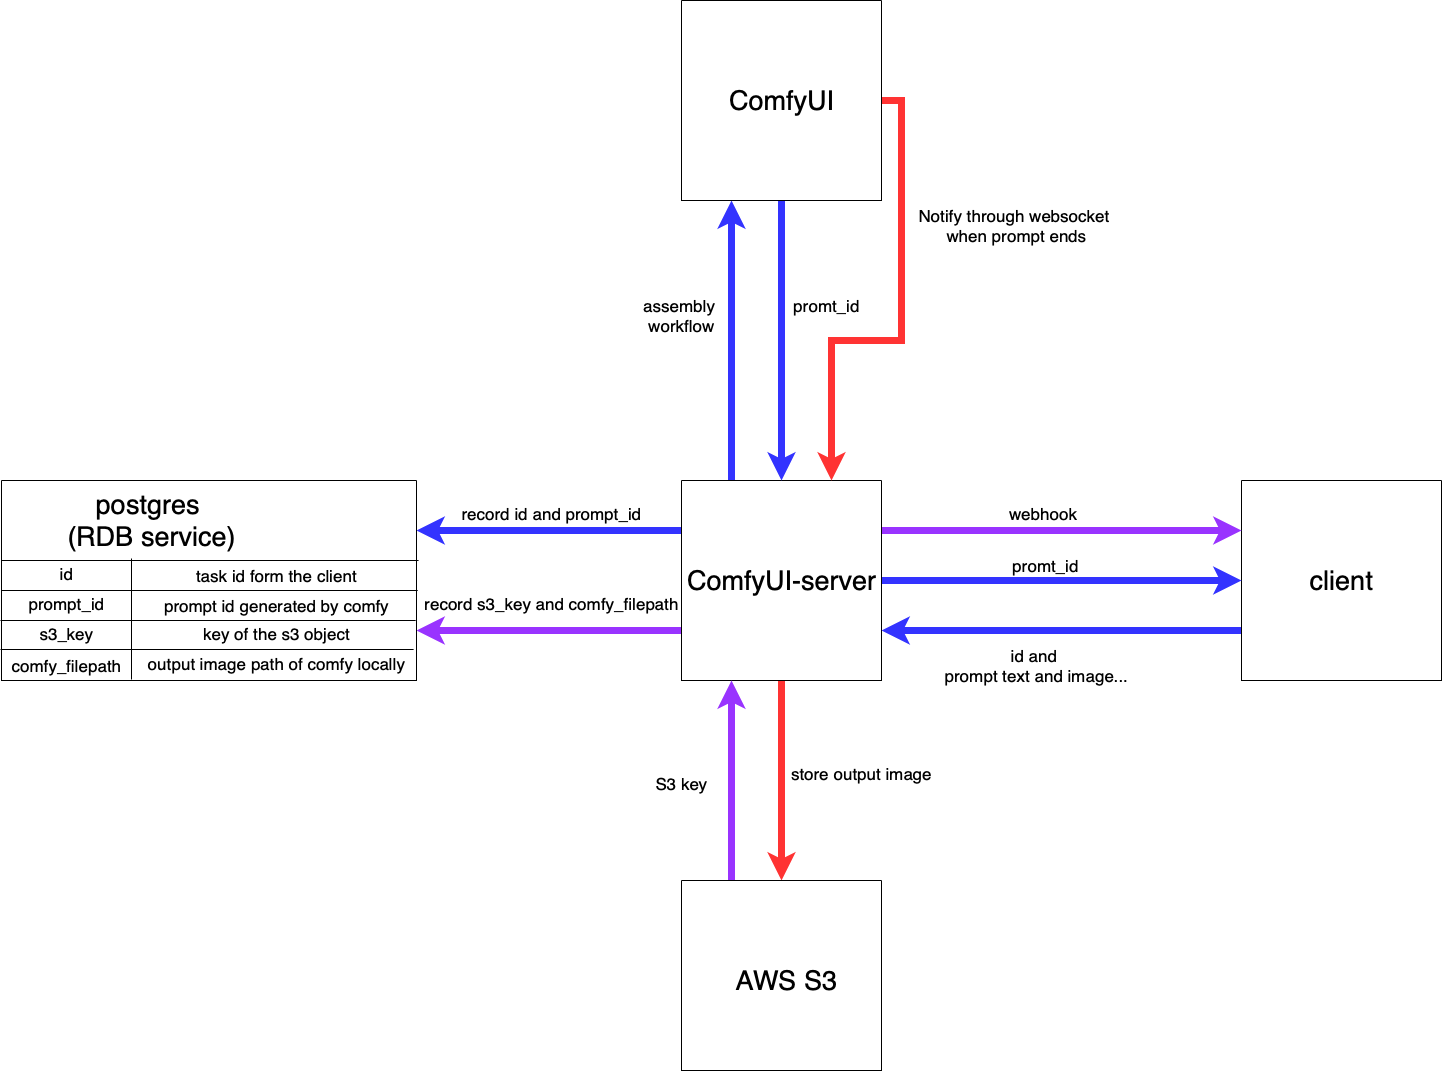
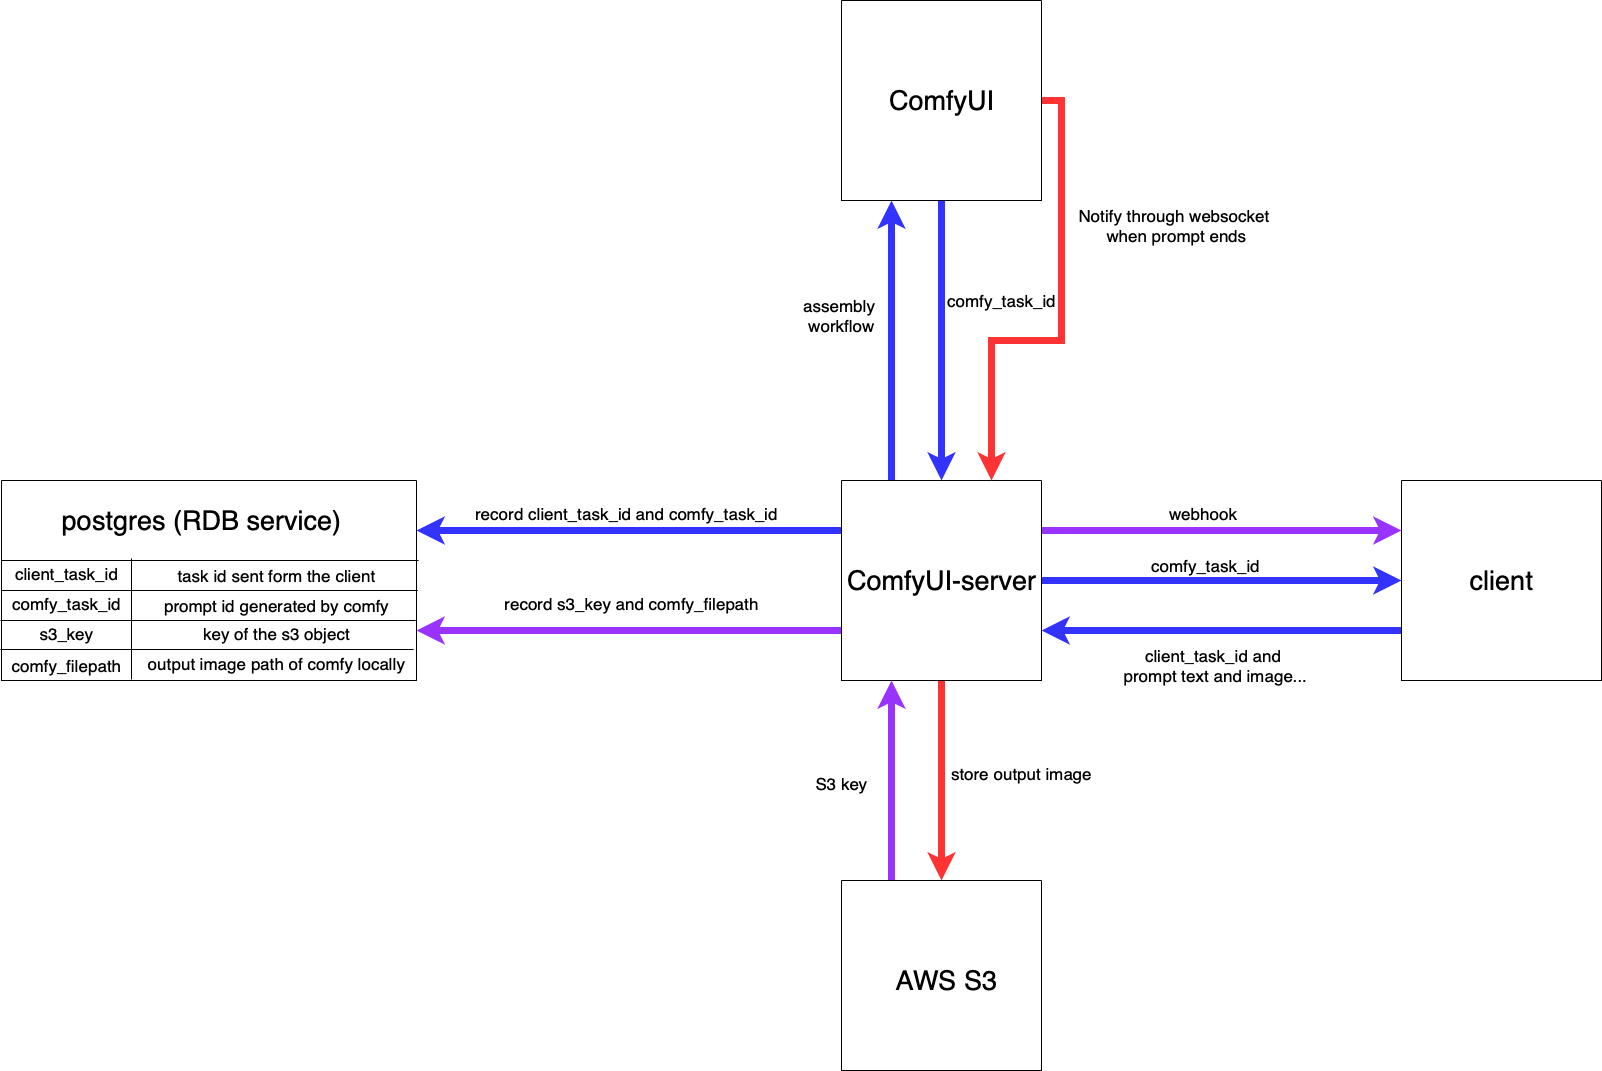
refactor: rename variables

diff --git a/src/comfy/__init__.py b/src/comfy/__init__.py
@@ -1,14 +1,18 @@
 import asyncio
 import json
 import logging
-import os
 import uuid
 
 import httpx
 import websockets
-from sqlalchemy.event import listen
 
-from config import COMFY_HOST, COMFY_PORT, COMFY_CLIENT_ID, CALL_BACK_BASE_URL, FALLBACK_PATH
+from config import (
+    COMFY_HOST,
+    COMFY_PORT,
+    COMFY_CLIENT_ID,
+    CALL_BACK_BASE_URL,
+    FALLBACK_PATH
+)
 from database import Record
 from database.repository import RecordRepository
 from s3 import upload_image_to_s3
@@ -17,7 +21,7 @@ from workflows.clean_file import CLEAN_FILE_PROMPT_TEMPLATE
 logger = logging.getLogger(__name__)
 
 
-class ComfyClient:
+class ComfyServer:
     _instance = None
 
     def __init__(self):
@@ -29,11 +33,11 @@ class ComfyClient:
 
     @staticmethod
     def get_instance():
-        if ComfyClient._instance is None:
-            ComfyClient._instance = ComfyClient()
-        return ComfyClient._instance
+        if ComfyServer._instance is None:
+            ComfyServer._instance = ComfyServer()
+        return ComfyServer._instance
 
-    async def queue_prompt(self, id, prompt: dict) -> Record:
+    async def queue_prompt(self, client_task_id: int, prompt: dict) -> Record:
         """commit a prompt to the comfy server"""
         uri = f'http://{self.host}:{self.port}/prompt'
         payload = {
@@ -43,8 +47,8 @@ class ComfyClient:
         async with httpx.AsyncClient() as client:
             response = await client.post(uri, json=payload)
             logger.debug(f'queue prompt response: {response.text}')
-            prompt_id = response.json()['prompt_id']
-            record = Record(id=id, prompt_id=prompt_id)
+            comfy_task_id = response.json()['prompt_id']
+            record = Record(client_task_id=client_task_id, comfy_task_id=comfy_task_id)
             record = await RecordRepository.create(record)
             return record
 
@@ -58,8 +62,8 @@ class ComfyClient:
                     message = await websocket.recv()
                     json_data = json.loads(message)
                     if json_data.get("type") == "executing" and json_data.get("data", {}).get("node") is None:
-                        prompy_id = json_data['data']['prompt_id']
-                        image = await self._retrieve_prompt(prompy_id)
+                        comfy_task_id = json_data['data']['prompt_id']
+                        image = await self._retrieve_image(comfy_task_id)
                         s3_resp = await upload_image_to_s3(image)
                         logger.info(f'uploaded image to s3: {s3_resp}')
                         if not s3_resp['success']:
@@ -67,7 +71,7 @@ class ComfyClient:
                             await self.store_failure(record, image)
                             continue
 
-                        record = await RecordRepository.retrieve_by_prompt_id(prompy_id)
+                        record = await RecordRepository.retrieve_by_comfy_task_id(comfy_task_id)
                         record.s3_key = s3_resp['key']
                         record = await RecordRepository.update(record)
                         try:
@@ -83,39 +87,36 @@ class ComfyClient:
                     await asyncio.sleep(5)
                     await self.listen()
 
-    async def _retrieve_prompt(self, prompt_id: str) -> bytes:
-        """retrieve a prompt from the comfy server"""
-        history_uri = f'http://{self.host}:{self.port}/history/{prompt_id}'
+    async def _retrieve_image(self, comfy_task_id: str) -> bytes:
+        """retrieve prompt task result(image) from comfyui"""
+        # 1. get the image path from the comfy server
+        history_uri = f'http://{self.host}:{self.port}/history/{comfy_task_id}'
         async with httpx.AsyncClient() as client:
             response = await client.get(history_uri)
             history = response.json()
-        output_info = history[prompt_id]['outputs']
+        output_info = history[comfy_task_id]['outputs']
         for key in output_info:
             if 'images' not in output_info[key]:
                 continue
-            image_info = output_info[key]['images'][0]  # todo now only retrieve the first image
+            image_info = output_info[key]['images'][0]  # note now only retrieve the first image
             image_path = image_info['filename']
             if image_info['subfolder']:
                 image_path = f"{image_info['subfolder']}/{image_path}"
 
-            record = await RecordRepository.retrieve_by_prompt_id(prompt_id)
+            record = await RecordRepository.retrieve_by_comfy_task_id(comfy_task_id)
             record.comfy_filepath = image_path
             await RecordRepository.update(record)
-            return await self._process_image(image_path)
 
-
-    async def _process_image(self, image_path: str) -> bytes:
-        """retrieve image from the comfy server"""
-        view_uri = f'http://{self.host}:{self.port}/view'
-        params = {'filename': image_path}
-        async with httpx.AsyncClient() as client:
-            response = await client.get(view_uri, params=params)
-            image = response.content
-            return image
+            # 2. retrieve the image from the comfy server
+            view_uri = f'http://{self.host}:{self.port}/view'
+            params = {'filename': image_path}
+            async with httpx.AsyncClient() as client:
+                response = await client.get(view_uri, params=params)
+                return response.content
 
     async def hook(self, record: Record):
         """callback to the client server"""
-        uri = f'{self.callback_base_url}/{record.id}'
+        uri = f'{self.callback_base_url}/{record.client_task_id}'
         async with httpx.AsyncClient() as client:
             response = await client.post(uri, json=record.to_dict())
             logger.debug(f'callback response: {response.text}')

diff --git a/src/api/service.py b/src/api/service.py
@@ -1,23 +1,23 @@
 import base64
 import json
 
-from comfy import ComfyClient, logger
+from comfy import ComfyServer, logger
 from database import Record
 from workflows.img2img import IMG2IMG_PROMPT_TEMPLATE
 from workflows.text2img import TEXT2IMG_PROMPT_TEMPLATE
 
-comfy_client = ComfyClient.get_instance()
+comfy_client = ComfyServer.get_instance()
 
 class Service:
     @staticmethod
-    async def text2img(id: int, params: dict) -> Record:
+    async def text2img(client_task_id: int, params: dict) -> Record:
         text = params.get('text')
         prompt_str = TEXT2IMG_PROMPT_TEMPLATE.substitute(text=text)
         prompt_json = json.loads(prompt_str)
-        return await comfy_client.queue_prompt(id, prompt_json)
+        return await comfy_client.queue_prompt(client_task_id, prompt_json)
 
     @staticmethod
-    async def img2img(id: int, params: dict) -> Record:
+    async def img2img(client_task_id: int, params: dict) -> Record:
         text = params.get('text')
         image_base64 = params.get('image')
 
@@ -32,7 +32,7 @@ class Service:
         prompt_str = IMG2IMG_PROMPT_TEMPLATE.substitute(text=text, image=image_path)
         prompt_json = json.loads(prompt_str)
         try:
-            return await comfy_client.queue_prompt(id, prompt_json)
+            return await comfy_client.queue_prompt(client_task_id, prompt_json)
         finally:
             # clean up the input file after the prompt is queued
             await comfy_client.clean_file(is_input=True, image_path=image_path)

diff --git a/src/database/__init__.py b/src/database/__init__.py
@@ -18,10 +18,10 @@ Base = declarative_base()
 
 class Record(Base):
     __tablename__ = "records"
-    __table_args__ = (Index("idx_prompt_id", "prompt_id"),)
+    __table_args__ = (Index("idx_prompt_id", "comfy_task_id"),)
 
-    id: Mapped[int] = mapped_column(Integer, primary_key=True)
-    prompt_id: Mapped[str] = mapped_column(String, nullable=False)
+    client_task_id: Mapped[int] = mapped_column(Integer, primary_key=True)
+    comfy_task_id: Mapped[str] = mapped_column(String, nullable=False)
     comfy_filepath: Mapped[str | None] = mapped_column(String)
     s3_key: Mapped[str | None] = mapped_column(String)
 
@@ -30,7 +30,7 @@ class Record(Base):
 
     def __repr__(self):
         return (
-            f"<Record(id={self.id}, prompt_id={self.prompt_id}, "
+            f"<Record(client_task_id={self.client_task_id}, comfy_task_id={self.comfy_task_id}, "
             f"comfy_path={self.comfy_filepath}, s3_key={self.s3_key})>"
         )
 

diff --git a/src/database/repository.py b/src/database/repository.py
@@ -15,13 +15,14 @@ class RecordRepository:
         return record
 
     @staticmethod
-    async def retrieve_by_prompt_id(prompt_id: str) -> Record:
+    async def retrieve_by_comfy_task_id(comfy_task_id: str) -> Record:
         async_session = async_sessionmaker(sql_engine)
         async with async_session() as session:
-            stmt = select(Record).where(Record.prompt_id == prompt_id)
+            stmt = select(Record).where(Record.comfy_task_id == comfy_task_id)
             result = await session.execute(stmt)
             record = result.scalars().first()
             return record
+
     @staticmethod
     async def update(record: Record) -> Record:
         async_session = async_sessionmaker(sql_engine)

diff --git a/src/main.py b/src/main.py
@@ -5,7 +5,7 @@ import uvicorn
 from fastapi import FastAPI
 
 from api import router
-from comfy import ComfyClient
+from comfy import ComfyServer
 from config import SERVICE_PORT
 from database import init_rdb
 
@@ -14,7 +14,7 @@ init_rdb()
 
 @asynccontextmanager
 async def lifespan(app: FastAPI):
-    comfy_client = ComfyClient.get_instance()
+    comfy_client = ComfyServer.get_instance()
     task = asyncio.create_task(comfy_client.listen())
     try:
         yield
@@ -30,4 +30,4 @@ async def callback(id: int, data: dict):
 app.include_router(router)
 
 if __name__ == '__main__':
-    uvicorn.run("main:app", host="0.0.0.0", port=SERVICE_PORT)
+    uvicorn.run("main:app", host="0.0.0.0", port=int(SERVICE_PORT))

diff --git a/src/api/__init__.py b/src/api/__init__.py
@@ -38,12 +38,12 @@ class ServiceType(Enum):
 
 class RequestDTO(BaseModel):
     service_type: ServiceType
-    id: int
+    client_task_id: int
     params: dict
 
 @router.post('')
 async def queue_prompt(request_dto: RequestDTO):
     """commit a prompt to the comfy server"""
     service_func = getattr(Service, request_dto.service_type.value)
-    return await service_func(request_dto.id, request_dto.params)
+    return await service_func(request_dto.client_task_id, request_dto.params)
 

diff --git a/README.md b/README.md
@@ -1,6 +1,8 @@
 # ComfyUI-server
 Due to the incomplete backend API interface provided by ComfyUI, it is very inconvenient to deploy ComfyUI related workflow microservices in one's own application. Therefore, I wrote this project as an enhanced backend implementation solution for ComfyUI.
 
+**Contributions are welcome! Feel free to star, fork, and submit PRs to help improve this project. 😊**
+
 ## Features
 - Support deploying **any** ComfyUI workflow in a factory-like manner.
 - Store the generated image in S3.
@@ -19,7 +21,7 @@ git clone https://github.com/Poseidon-fan/ComfyUI-server.git
 
 2. configure your environment variables
 
-Create `.env` file in ComfyS3 root folder with the following variables:
+Create `.env` file in ComfyUI-server root folder with the following variables:
 ```text
 COMFY_HOST = "localhost"                               # ComfyUI service host
 COMFY_PORT = "8188"                                    # ComfyUI service port
@@ -67,7 +69,7 @@ By default, the APi working mode of ComfyUI is:
   - `prompt`: contains workflow information for ComfyUI
   - `clientId`: request sender's identification
   
-  Once received a prompt, ComfyUI will generate a prompt_id and send back.
+  Once received a prompt, ComfyUI will generate a prompt_id and send back. I call it `comfy_task_id`.
   
 - You can establish a websocket connection to ComfyUI based on the clientId. ComfyUI will send the processing information for requests with the same clientId.
 - The SaveImage and LoadImage nodes native to ComfyUI can only retrieve/output files from local folders.
@@ -139,9 +141,9 @@ The code could be found in `src/s3`, it's just a basic encapsulation of the aiob
 
 ### Webhook
 In this system setup, a client-side `client_url` needs to be configured in the environment variable, 
-and every time the client sends a request, it must include the client's `id`. 
+and every time the client sends a request, it must include the client's `client_task_id`. 
 When this service detects that ComfyUI has completed a prompt processing information and sent the file to S3 storage, 
-it will access the `client_url/id` and include detailed result information in the request body.
+it will access the `client_url/client_task_id` and include detailed result information in the request body.
 
 ### clean local input and output images
 Please refer to this custom node of ComfyUI: [https://github.com/Poseidon-fan/ComfyUI-fileCleaner](https://github.com/Poseidon-fan/ComfyUI-fileCleaner)
@@ -151,12 +153,12 @@ I use postgres as rdb to record these information:
 
 | field          | introduction                       |
 |----------------|------------------------------------|
-| id             | the id from the client             |
-| prompt_id      | the prompt_id generated by ComfyUI |
+| client_task_id | the task id sent from the client   |
+| comfy_task_id  | the prompt_id generated by ComfyUI |
 | s3_key         | key of the s3 object               |
 | comfy_filepath | image path locally                 |
 
-when there's an error when uploading to s3 or webhook, the error file will be saved in the fallback path. It's path is the same as comfy_filepath.
+when there's an error when uploading to s3 or webhook, the error file will be saved in the fallback path. Its path is the same as comfy_filepath.
 
 ## How to add a new workflow
 Here, I take the example of the text production workflow of the flux model in the repository.
@@ -165,7 +167,7 @@ Here, I take the example of the text production workflow of the flux model in th
 ![export_api](./images/export_api.png)
 
 2. create a new file in `src/workflows` folder, and paste the exported API into it. Replace the parameters you want to configure with $ (python template string format).
-3. add a enum member in `src/api/__init__.py` ServiceType class.
+3. add an enum member in `src/api/__init__.py` ServiceType class.
 4. create a function in `src/api/service.py` Service class, make sure the function name is the same as the enum member you added. And implement the function according to the workflow you exported.
 
 Now you can use the new workflow in your application.
@@ -175,21 +177,19 @@ The base request json format is:
 {
     "service_type": "service type. example: text2img",
     "params": {
-        // base on your workflow
+        // based on your workflow
         "text": "prompt text",
         "image": "base64_format "
     },
-    "id": 1  // id from client
+    "client_task_id": 1  // task id from client
 }
 ```
 The immediate response and the webhook request format is:
 ```json
 {
-  "prompt_id": "d8f9e16e-af8a-4315-9584-5e669bbdf3af", 
+  "comfy_task_id": "d8f9e16e-af8a-4315-9584-5e669bbdf3af", 
   "s3_key": "fa39816b-e89f-4702-bce6-24351825e2ae.png", 
-  "id": 101, 
+  "client_task_id": 101, 
   "comfy_filepath": "ComfyUI_00157_.png"
 }
 ```
-
-**Contributions are welcome! Feel free to star, fork, and submit PRs to help improve this project. 😊**
